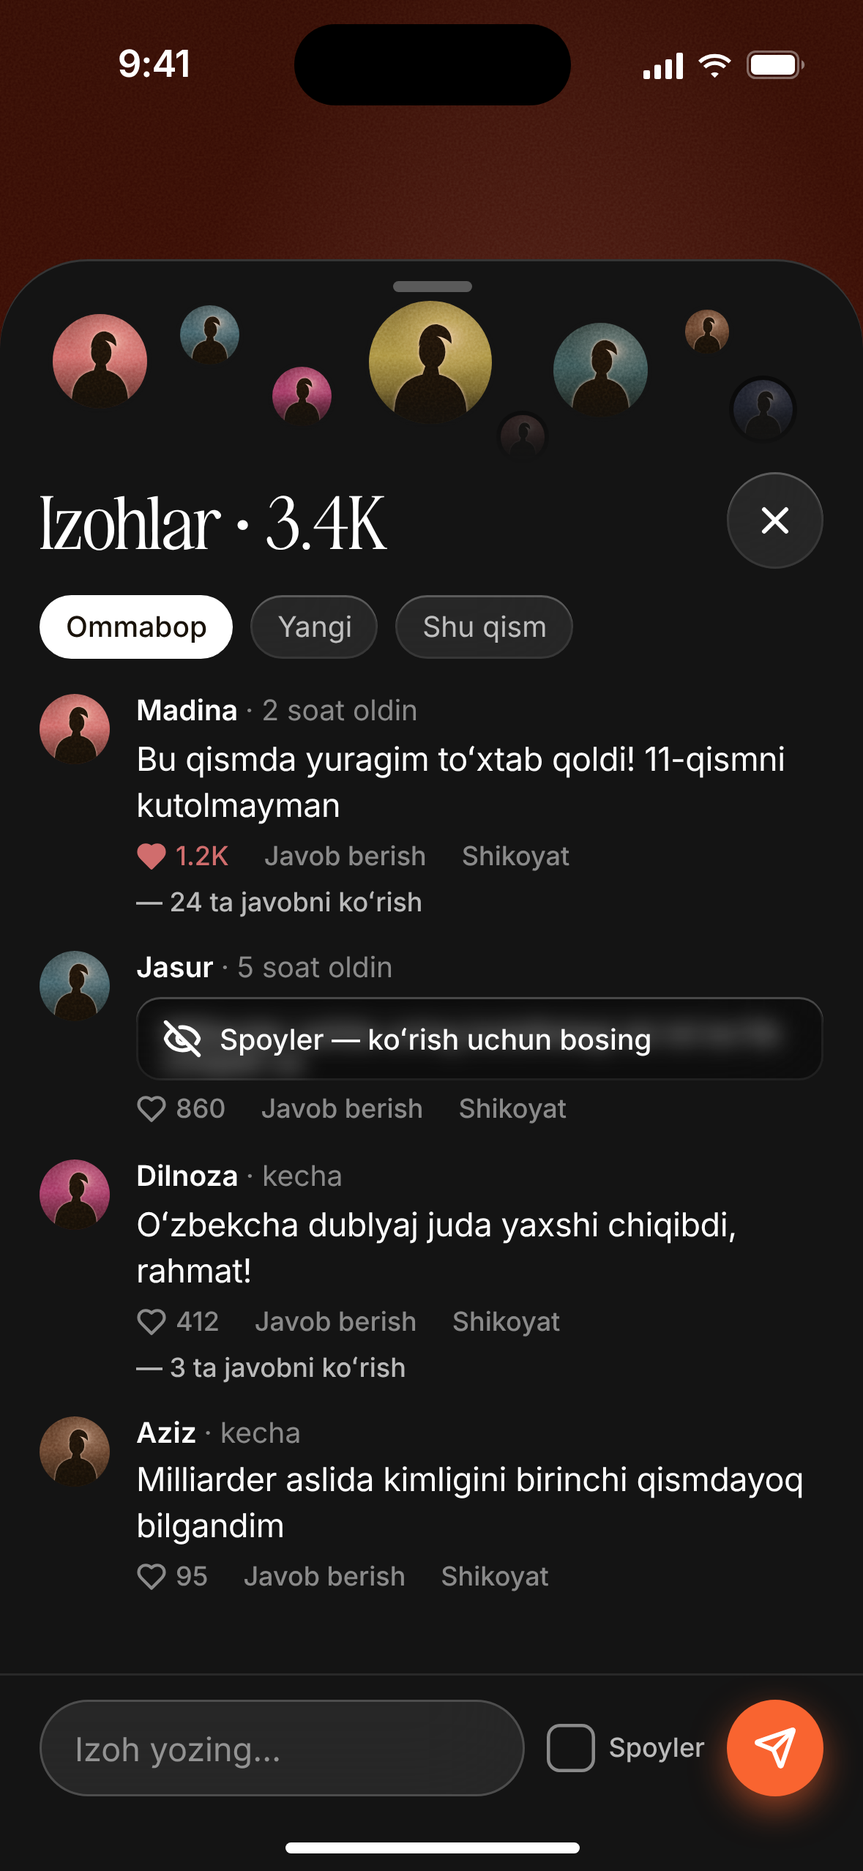
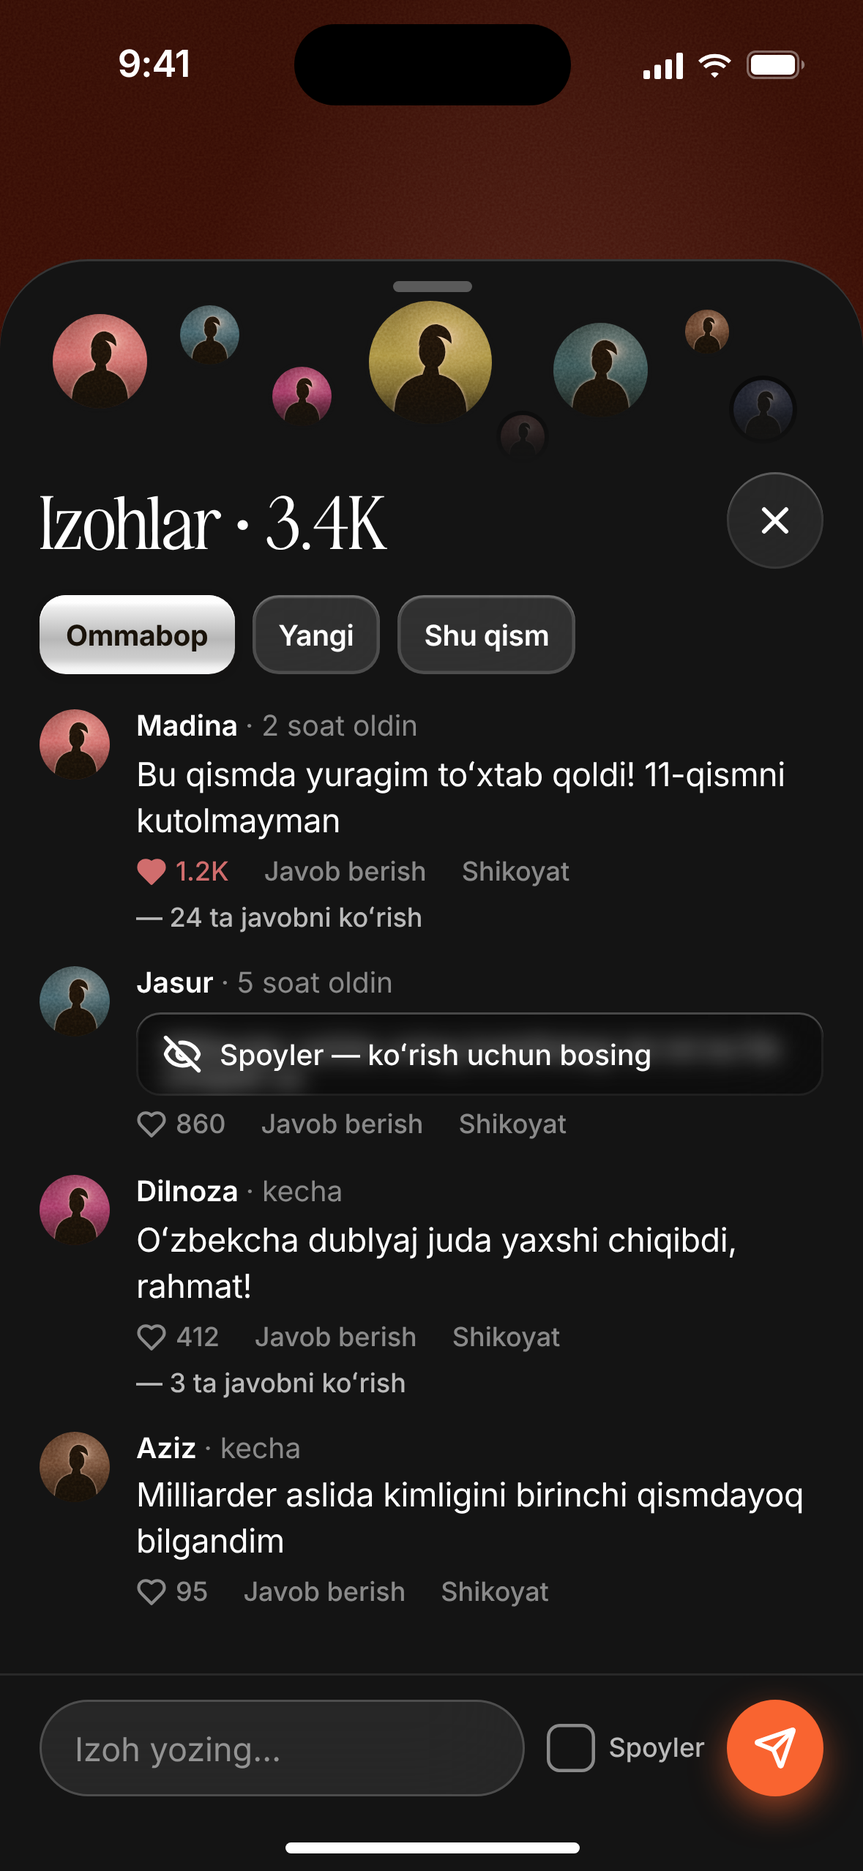
Selectable chips become button-style choices
- .choice (44/36 pt, radius 12, 600-700 weight): selected uses the glossy
  primary fill, others the solid glass button; applied to language,
  filters, quality/audio/subtitle, episode range, player bar, recent
  searches, payment methods, notification and help topics
- 07 results fade at the bottom instead of running under the home bar
- heights, gallery sample, DEVIATIONS U5; audit clean; shots regenerated

Claude-Session: https://claude.ai/code/session_01AYQSqmCKxR9wk5HyhigZPN

diff --git a/design/screens/07-janrlar.html b/design/screens/07-janrlar.html
@@ -14,10 +14,10 @@
   .filters { position: absolute; top: 124px; left: 0; right: 0; display: flex; flex-direction: column; gap: var(--s-8); }
   .frow { display: flex; align-items: center; gap: var(--s-8); padding-left: var(--page-x); overflow: hidden; white-space: nowrap; }
   .frow > span:first-child { flex: none; width: 58px; font: 500 var(--t-caption)/1 var(--f-ui); color: var(--text-3); }
-  .frow .chip { height: var(--h-pill-xs); padding: 0 var(--s-12); font-size: var(--t-footnote); }
-  .found { position: absolute; top: 290px; left: var(--page-x); right: var(--page-x); display: flex; align-items: center; justify-content: space-between; padding-top: var(--s-12); box-shadow: inset 0 1px 0 var(--line-1); }
+  .found { position: absolute; top: 318px; left: var(--page-x); right: var(--page-x); display: flex; align-items: center; justify-content: space-between; padding-top: var(--s-12); box-shadow: inset 0 1px 0 var(--line-1); }
   .found .btn--text { height: auto; padding: 0; font-size: var(--t-footnote); color: var(--text-2); }
-  .results { position: absolute; top: 336px; left: var(--page-x); right: var(--page-x); display: flex; flex-direction: column; gap: var(--s-16); }
+  .results { position: absolute; top: 364px; bottom: 30px; left: var(--page-x); right: var(--page-x); display: flex; flex-direction: column; gap: var(--s-16); overflow: hidden;
+    -webkit-mask-image: linear-gradient(180deg, var(--bg-0) 82%, transparent 100%); mask-image: linear-gradient(180deg, var(--bg-0) 82%, transparent 100%); }
   .res { display: flex; gap: var(--s-12); align-items: center; }
   .res .poster { --pw: 76px; }
   .res__body { flex: 1; min-width: 0; }
@@ -37,10 +37,10 @@
   </div>
 
   <div class="filters">
-    <div class="frow"><span>Janr</span><span class="chip">Hammasi</span><span class="chip">Romantika</span><span class="chip chip--selected">Qasos</span><span class="chip">CEO</span><span class="chip">Boʻrilar</span><span class="chip">Oilaviy</span></div>
-    <div class="frow"><span>Til</span><span class="chip">Hammasi</span><span class="chip chip--selected">Oʻzbekcha</span><span class="chip">Ruscha</span><span class="chip">Inglizcha</span></div>
-    <div class="frow"><span>Holati</span><span class="chip chip--selected">Hammasi</span><span class="chip">Tugallangan</span><span class="chip">Davom etmoqda</span></div>
-    <div class="frow"><span>Saralash</span><span class="chip chip--selected">Ommabop</span><span class="chip">Yangi</span><span class="chip">Reyting</span><span class="chip">Koʻp saqlangan</span></div>
+    <div class="frow"><span>Janr</span><span class="chip choice choice--sm">Hammasi</span><span class="chip choice choice--sm">Romantika</span><span class="chip choice choice--sm chip--selected">Qasos</span><span class="chip choice choice--sm">CEO</span><span class="chip choice choice--sm">Boʻrilar</span><span class="chip choice choice--sm">Oilaviy</span></div>
+    <div class="frow"><span>Til</span><span class="chip choice choice--sm">Hammasi</span><span class="chip choice choice--sm chip--selected">Oʻzbekcha</span><span class="chip choice choice--sm">Ruscha</span><span class="chip choice choice--sm">Inglizcha</span></div>
+    <div class="frow"><span>Holati</span><span class="chip choice choice--sm chip--selected">Hammasi</span><span class="chip choice choice--sm">Tugallangan</span><span class="chip choice choice--sm">Davom etmoqda</span></div>
+    <div class="frow"><span>Saralash</span><span class="chip choice choice--sm chip--selected">Ommabop</span><span class="chip choice choice--sm">Yangi</span><span class="chip choice choice--sm">Reyting</span><span class="chip choice choice--sm">Koʻp saqlangan</span></div>
   </div>
 
   <div class="found"><span class="t-mono c-2">1 284 ta drama topildi</span><button class="btn btn--text">Tozalash</button></div>

diff --git a/design/screens/14-pleer-sozlamalari.html b/design/screens/14-pleer-sozlamalari.html
@@ -13,7 +13,6 @@
   .head { display: flex; align-items: center; justify-content: space-between; }
   .grp { margin-top: var(--s-16); }
   .grp > p { font: 500 var(--t-caption)/1 var(--f-ui); color: var(--text-3); margin-bottom: var(--s-8); }
-  .grp .chip { height: var(--h-pill-xs); padding: 0 var(--s-12); font-size: var(--t-footnote); }
   .speed .gslider { color: var(--text-2); }
   .ticks { display: flex; justify-content: space-between; padding: 0 var(--s-6); margin-top: var(--s-6); font: 500 var(--t-caption)/1 var(--f-ui); color: var(--text-3); }
   .ticks b { color: var(--text-1); font-weight: 600; }
@@ -37,9 +36,9 @@
       <div class="gslider" style="--v: 20%"><div class="gslider__fill"></div><div class="gslider__dots"><i></i><i></i><i></i><i></i><i></i></div><div class="gslider__knob"></div><span><i class="ic ic-gauge ic--20"></i></span><span class="t-body-m" style="color: var(--text-1)">1.0x</span></div>
       <div class="ticks"><span>0.75x</span><b>1.0x</b><span>1.25x</span><span>1.5x</span><span>2.0x</span></div>
     </div>
-    <div class="grp"><p>Sifat</p><div class="row-flex gap-8"><span class="chip chip--selected"><i class="ic ic-check"></i>Avto</span><span class="chip">480p</span><span class="chip">720p</span><span class="chip">1080p<span class="vipb">VIP</span></span></div></div>
-    <div class="grp"><p>Ovoz / dublyaj</p><div class="row-flex gap-8"><span class="chip">Original</span><span class="chip chip--selected"><i class="ic ic-check"></i>Oʻzbekcha</span><span class="chip">Ruscha</span></div></div>
-    <div class="grp"><p>Subtitr</p><div class="row-flex gap-8"><span class="chip">Oʻchiq</span><span class="chip chip--selected"><i class="ic ic-check"></i>Oʻzbekcha</span><span class="chip">Ruscha</span><span class="chip">Inglizcha</span></div></div>
+    <div class="grp"><p>Sifat</p><div class="row-flex gap-8"><span class="chip choice choice--sm chip--selected"><i class="ic ic-check"></i>Avto</span><span class="chip choice choice--sm">480p</span><span class="chip choice choice--sm">720p</span><span class="chip choice choice--sm">1080p<span class="vipb">VIP</span></span></div></div>
+    <div class="grp"><p>Ovoz / dublyaj</p><div class="row-flex gap-8"><span class="chip choice choice--sm">Original</span><span class="chip choice choice--sm chip--selected"><i class="ic ic-check"></i>Oʻzbekcha</span><span class="chip choice choice--sm">Ruscha</span></div></div>
+    <div class="grp"><p>Subtitr</p><div class="row-flex gap-8"><span class="chip choice choice--sm">Oʻchiq</span><span class="chip choice choice--sm chip--selected"><i class="ic ic-check"></i>Oʻzbekcha</span><span class="chip choice choice--sm">Ruscha</span><span class="chip choice choice--sm">Inglizcha</span></div></div>
 
     <div class="card rows">
       <div class="row"><i class="ic ic-play"></i><span class="row__label">Keyingi qismni avtomatik ijro etish</span><span class="toggle is-on"></span></div>

diff --git a/design/index.html b/design/index.html
@@ -133,9 +133,9 @@
     { id: 'kashf', n: 2, title: 'Kashf qilish', desc: 'Bosh sahifa, vertikal lenta, qidiruv, janrlar, reyting va tez kunda chiqadiganlar.', screens: [
       ['04-bosh-sahifa', 'Bosh sahifa', 2201], ['05-lenta', 'Lenta (vertikal svayp)'], ['06-qidiruv', 'Qidiruv'], ['07-janrlar', 'Janrlar va filtr'], ['08-reyting', 'Reyting / Top'], ['09-tez-kunda', 'Tez kunda']] },
     { id: 'tomosha', n: 3, title: 'Tomosha', desc: 'Drama sahifasi, pleer va uning qatlamlari — qismlar, izohlar, sozlamalar — hamda serial yakuni.', screens: [
-      ['10-drama', 'Drama sahifasi', 1786], ['11-pleer', 'Pleer'], ['12-qismlar', 'Qismlar roʻyxati'], ['13-izohlar', 'Izohlar'], ['14-pleer-sozlamalari', 'Pleer sozlamalari'], ['15-serial-tugadi', 'Serial tugadi']] },
+      ['10-drama', 'Drama sahifasi', 1793], ['11-pleer', 'Pleer'], ['12-qismlar', 'Qismlar roʻyxati'], ['13-izohlar', 'Izohlar'], ['14-pleer-sozlamalari', 'Pleer sozlamalari'], ['15-serial-tugadi', 'Serial tugadi']] },
     { id: 'monetizatsiya', n: 4, title: 'Monetizatsiya', desc: 'Qulflangan qism, coin doʻkoni, VIP obuna, toʻlov, maxsus taklif va reklama koʻrib ochish.', screens: [
-      ['16-paywall', 'Qulflangan qism (paywall)'], ['17-coin-dokoni', 'Coin doʻkoni', 1146], ['18-vip', 'VIP obuna', 1115], ['19-tolov', 'Toʻlov'], ['20-maxsus-taklif', 'Maxsus taklif popup'], ['21-reklama', 'Reklama koʻrib ochish']] },
+      ['16-paywall', 'Qulflangan qism (paywall)'], ['17-coin-dokoni', 'Coin doʻkoni', 1160], ['18-vip', 'VIP obuna', 1115], ['19-tolov', 'Toʻlov'], ['20-maxsus-taklif', 'Maxsus taklif popup'], ['21-reklama', 'Reklama koʻrib ochish']] },
     { id: 'mukofotlar', n: 5, title: 'Mukofotlar', desc: 'Kunlik kirish, vazifalar va doʻstni taklif qilish — bonus coin manbalari.', screens: [
       ['22-mukofotlar', 'Mukofotlar markazi', 1598], ['23-dost-taklif', 'Doʻstni taklif qilish']] },
     { id: 'profil', n: 6, title: 'Profil', desc: 'Roʻyxatim, yuklanganlar, bildirishnomalar, profil, hamyon, sozlamalar va yordam markazi.', screens: [

diff --git a/design/screens/17-coin-dokoni.html b/design/screens/17-coin-dokoni.html
@@ -23,13 +23,12 @@
   .vipb { margin: var(--gap-section) var(--page-x) 0; display: flex; align-items: center; gap: var(--s-12); padding: var(--s-16); border-radius: var(--r-media); }
   .pay { padding: 0 var(--page-x); margin-top: var(--gap-section); }
   .pay__chips { display: flex; flex-wrap: wrap; gap: var(--s-8); margin-top: var(--s-12); }
-  .pay__chips .chip { height: var(--h-pill-xs); padding: 0 var(--s-12); color: var(--text-1); }
   .links { display: flex; justify-content: center; gap: var(--s-20); margin-top: var(--gap-section); font: 500 var(--t-footnote)/1 var(--f-ui); color: var(--text-2); }
   .links a { text-decoration: underline; text-underline-offset: 3px; }
 </style>
 </head>
 <body>
-<div class="screen" id="screen" style="height: 1146px">
+<div class="screen" id="screen" style="height: 1160px">
   <div class="glow warm grain"><div class="ring" style="opacity: .8"></div></div>
   <div class="status"><div class="status__time">9:41</div><div class="status__icons"><i class="status__sig"></i><i class="status__wifi"></i><i class="status__bat"></i></div></div>
   <div class="island"></div>
@@ -68,7 +67,7 @@
 
   <section class="pay">
     <h2 class="t-headline">Toʻlov usullari</h2>
-    <div class="pay__chips"><span class="chip">Payme</span><span class="chip">Click</span><span class="chip">Uzum</span><span class="chip">UzCard / Humo</span><span class="chip">Visa / MC</span><span class="chip">App Store / Google Play</span></div>
+    <div class="pay__chips"><span class="chip choice choice--sm">Payme</span><span class="chip choice choice--sm">Click</span><span class="chip choice choice--sm">Uzum</span><span class="chip choice choice--sm">UzCard / Humo</span><span class="chip choice choice--sm">Visa / MC</span><span class="chip choice choice--sm">App Store / Google Play</span></div>
   </section>
 
   <div class="links"><a class="hit">Xaridlarni tiklash</a><a class="hit">Toʻlov shartlari</a><a class="hit">Yordam</a></div>

diff --git a/design/screens/06-qidiruv.html b/design/screens/06-qidiruv.html
@@ -23,7 +23,6 @@
   .head { display: flex; align-items: center; justify-content: space-between; padding: 0 var(--page-x); }
   .head .btn--text { height: auto; padding: 0; color: var(--text-2); font-size: var(--t-footnote); }
   .recent { display: flex; flex-wrap: wrap; gap: var(--s-8); padding: 0 var(--page-x); margin-top: var(--s-12); }
-  .recent .chip { height: var(--h-chip-glass); padding: 0 var(--s-10) 0 var(--s-12); font-size: var(--t-footnote); color: var(--text-1); }
   .recent .chip .ic { color: var(--text-3); }
   .count { display: inline-grid; place-items: center; width: 26px; height: 26px; border-radius: 50%; background: var(--glass-bg-strong); font: 500 var(--t-footnote)/1 var(--f-ui); margin-left: var(--s-8); vertical-align: middle; }
   .top-list { padding: 0 var(--page-x); margin-top: var(--s-6); }
@@ -53,10 +52,10 @@
   <div class="body">
     <div class="head"><h2 class="t-headline">Oxirgi qidiruvlar</h2><button class="btn btn--text">Tozalash</button></div>
     <div class="recent">
-      <span class="chip">milliarder<i class="ic ic-close"></i></span>
-      <span class="chip">boʻri<i class="ic ic-close"></i></span>
-      <span class="chip">qasos kelin<i class="ic ic-close"></i></span>
-      <span class="chip">koreys drama<i class="ic ic-close"></i></span>
+      <span class="chip choice choice--sm">milliarder<i class="ic ic-close"></i></span>
+      <span class="chip choice choice--sm">boʻri<i class="ic ic-close"></i></span>
+      <span class="chip choice choice--sm">qasos kelin<i class="ic ic-close"></i></span>
+      <span class="chip choice choice--sm">koreys drama<i class="ic ic-close"></i></span>
     </div>
 
     <div class="head" style="margin-top: var(--s-24)"><h2 class="t-title-2">Koʻp qidirilayotgan<span class="count">8</span></h2></div>

diff --git a/design/screens/30-yordam.html b/design/screens/30-yordam.html
@@ -12,7 +12,6 @@
   .top { position: absolute; z-index: 5; top: 58px; left: var(--page-x); right: var(--page-x); display: flex; align-items: center; gap: var(--s-12); }
   .find { position: absolute; top: 120px; left: var(--page-x); right: var(--page-x); }
   .topics { position: absolute; top: 196px; left: var(--page-x); right: var(--page-x); display: flex; gap: var(--s-8); }
-  .topics .chip { height: var(--h-pill-xs); padding: 0 var(--s-12); }
   .acc { position: absolute; top: 246px; left: var(--page-x); right: var(--page-x); padding: 0; }
   .q { padding: var(--s-16); display: flex; align-items: center; gap: var(--s-12); }
   .q + .q, .q + .a + .q { box-shadow: inset 0 1px 0 var(--line-1); }
@@ -32,7 +31,7 @@
   <div class="top"><button class="gbtn gbtn--sm gbtn--dark" aria-label="Orqaga"><i class="ic ic-chev-left"></i></button><h1 class="t-title-2">Yordam markazi</h1></div>
 
   <div class="find search"><i class="ic ic-search c-3"></i><span class="search__ph">Savolingizni yozing…</span></div>
-  <div class="topics"><span class="chip chip--selected">Toʻlov</span><span class="chip">Coin</span><span class="chip">VIP</span><span class="chip">Tomosha</span><span class="chip">Hisob</span></div>
+  <div class="topics"><span class="chip choice choice--sm chip--selected">Toʻlov</span><span class="chip choice choice--sm">Coin</span><span class="chip choice choice--sm">VIP</span><span class="chip choice choice--sm">Tomosha</span><span class="chip choice choice--sm">Hisob</span></div>
 
   <div class="card acc">
     <div class="q"><span>Coinlarim qayerga ketdi?</span><i class="ic ic-chev-up ic--20"></i></div>

diff --git a/design/screens/13-izohlar.html b/design/screens/13-izohlar.html
@@ -13,7 +13,6 @@
   .bubbles { height: 74px; margin: -4px calc(var(--page-x) * -1) 0; -webkit-mask-image: linear-gradient(180deg, var(--bg-0) 55%, transparent 100%); mask-image: linear-gradient(180deg, var(--bg-0) 55%, transparent 100%); }
   .head { display: flex; align-items: center; justify-content: space-between; margin-top: var(--s-4); }
   .sort { display: flex; gap: var(--s-8); margin-top: var(--s-12); }
-  .sort .chip { height: var(--h-pill-xs); padding: 0 var(--s-12); }
   .cmts { margin-top: var(--s-16); display: flex; flex-direction: column; gap: var(--s-16); }
   .cmt { display: flex; gap: var(--s-12); }
   .cmt > .art { width: 32px; height: 32px; border-radius: 50%; flex: none; }
@@ -53,7 +52,7 @@
       <span class="bubble bubble--far art art--portrait" style="--amb: var(--amb-10); width: 19.5px; height: 19.5px; left: 228px; top: 52px"></span>
     </div>
     <div class="head"><h2 class="t-serif-lg">Izohlar · 3.4K</h2><button class="gbtn gbtn--sm gbtn--dark" aria-label="Yopish"><i class="ic ic-close ic--20"></i></button></div>
-    <div class="sort"><span class="chip chip--selected">Ommabop</span><span class="chip">Yangi</span><span class="chip">Shu qism</span></div>
+    <div class="sort"><span class="chip choice choice--sm chip--selected">Ommabop</span><span class="chip choice choice--sm">Yangi</span><span class="chip choice choice--sm">Shu qism</span></div>
 
     <div class="cmts">
       <div class="cmt"><div class="art art--portrait" style="--amb: var(--amb-11)"></div><div class="cmt__b">

diff --git a/design/components.css b/design/components.css
@@ -100,6 +100,12 @@ button { font: inherit; color: inherit; background: none; border: 0; cursor: poi
 .chip--flame { background: var(--flame); color: var(--on-flame); box-shadow: none; font-weight: 600; }
 .chip--sand { background: transparent; color: var(--sand); box-shadow: inset 0 0 0 1px var(--sand); }
 .chip--lg { height: var(--h-pill-xs); padding: 0 var(--s-12); font-size: var(--t-body); }
+/* Tanlov tugmasi — bosiladigan chip'lar (til, filtr, sifat, oraliq, saralash) asosiy tugma uslubida:
+   qalin yozuv, kamroq yumaloq burchak, tanlangani glossy oq (btn--primary), qolganlari glass tugma (btn--glass) */
+.choice { height: var(--h-choice); padding: 0 var(--s-16); gap: var(--s-6); border-radius: var(--r-btn-xs); background: var(--glass-btn); box-shadow: inset 0 0 0 1.5px var(--line-2), inset 0 1px 0 var(--glass-line); font: 600 var(--t-body)/1 var(--f-ui); letter-spacing: -.01em; color: var(--text-1); }
+.choice .ic { width: 16px; height: 16px; }
+.choice.chip--selected { background: var(--glossy-fill); color: var(--cocoa); box-shadow: var(--glossy-hi), var(--shadow-pill); font-weight: 700; }
+.choice--sm { height: var(--h-choice-sm); padding: 0 var(--s-12); font-size: var(--t-footnote); }
 .avatars { display: inline-flex; }
 .avatars > span { width: 20px; height: 20px; border-radius: 50%; margin-left: -7px; box-shadow: 0 0 0 1.5px var(--bg-0); background: var(--amb, var(--bg-3)); overflow: hidden; position: relative; }
 .avatars > span:first-child { margin-left: 0; }

diff --git a/design/screens/11-pleer.html b/design/screens/11-pleer.html
@@ -27,9 +27,7 @@
   .controls .sec-num { position: absolute; font: 600 var(--t-micro)/1 var(--f-ui); top: 50%; left: 50%; transform: translate(-50%, -38%); }
   .play { width: var(--d-play); height: var(--d-play); }
   .pills { position: absolute; z-index: 5; left: var(--page-x); right: var(--page-x); top: 770px; display: flex; gap: var(--s-8); }
-  .pills .chip { height: var(--h-chip-glass); padding: 0 var(--s-12); font: 500 var(--t-footnote)/1 var(--f-ui); color: var(--text-1); background: var(--glass-bg-strong); }
-  .pills .chip--selected { background: var(--text-1); color: var(--cocoa); }
-  .pills .chip--selected .ic { color: var(--cocoa); }
+  .pills .choice:not(.chip--selected) { background: var(--glass-bg-strong); }
 </style>
 </head>
 <body>
@@ -70,10 +68,10 @@
     <button class="gbtn" aria-label="5 soniya oldinga"><i class="ic ic-forward ic--28"></i><span class="sec-num">5</span></button>
   </div>
   <div class="pills">
-    <span class="chip chip--selected"><i class="ic ic-list"></i>Qismlar 10/80</span>
-    <span class="chip">1.0x</span>
-    <span class="chip"><i class="ic ic-cc"></i>CC uz</span>
-    <span class="chip">720p</span>
+    <span class="chip choice choice--sm chip--selected"><i class="ic ic-list"></i>Qismlar 10/80</span>
+    <span class="chip choice choice--sm">1.0x</span>
+    <span class="chip choice choice--sm"><i class="ic ic-cc"></i>CC uz</span>
+    <span class="chip choice choice--sm">720p</span>
   </div>
 
   <div class="home-ind"></div>

diff --git a/design/screens/10-drama.html b/design/screens/10-drama.html
@@ -30,13 +30,12 @@
   .price { margin: 0 var(--page-x); }
   .price__line { display: flex; gap: var(--s-10); align-items: flex-start; }
   .range { display: flex; align-items: center; gap: var(--s-8); padding: 0 var(--page-x); margin-top: var(--s-16); }
-  .range .chip { height: var(--h-pill-xs); padding: 0 var(--s-12); font-size: var(--t-footnote); }
   .eps-wrap { padding: 0 var(--page-x); margin-top: var(--s-12); }
   .legend { margin-top: var(--s-12); }
 </style>
 </head>
 <body>
-<div class="screen" id="screen" style="height: 1786px">
+<div class="screen" id="screen" style="height: 1793px">
   <div class="status"><div class="status__time">9:41</div><div class="status__icons"><i class="status__sig"></i><i class="status__wifi"></i><i class="status__bat"></i></div></div>
   <div class="island"></div>
 
@@ -98,7 +97,7 @@
   <section class="sec">
     <nav class="utabs"><span class="utabs__item is-active">Qismlar (80)</span><span class="utabs__item">Oʻxshash</span><span class="utabs__item">Tafsilotlar</span></nav>
     <div class="range">
-      <span class="chip chip--selected">1–30</span><span class="chip">31–60</span><span class="chip">61–80</span>
+      <span class="chip choice choice--sm chip--selected">1–30</span><span class="chip choice choice--sm">31–60</span><span class="chip choice choice--sm">61–80</span>
       <span class="t-caption c-3" style="margin-left: auto">har biri 1–2 daqiqa</span>
     </div>
     <div class="eps-wrap">

diff --git a/design/screens/26-bildirishnomalar.html b/design/screens/26-bildirishnomalar.html
@@ -16,7 +16,6 @@
   .perm > *:not(.ring) { position: relative; z-index: 3; }
   .perm .ring--card { width: 760px; height: 760px; left: -400px; top: -340px; }
   .filters { position: absolute; top: 212px; left: var(--page-x); right: 0; display: flex; gap: var(--s-8); overflow: hidden; }
-  .filters .chip { height: var(--h-pill-xs); padding: 0 var(--s-12); }
   .feed { position: absolute; top: 260px; left: 0; right: 0; }
   .grp { padding: var(--s-12) var(--page-x) var(--s-4); font: 600 var(--t-caption)/1 var(--f-ui); color: var(--text-3); text-transform: none; }
   .nt { position: relative; display: flex; gap: var(--s-12); padding: var(--s-10) var(--page-x); align-items: flex-start; }
@@ -42,7 +41,7 @@
     <button class="btn btn--primary btn--xs" style="height: var(--d-glass-sm)">Yoqish +30</button>
   </div>
 
-  <div class="filters"><span class="chip chip--selected">Hammasi</span><span class="chip">Yangi qismlar</span><span class="chip">Takliflar</span><span class="chip">Javoblar</span><span class="chip">Tizim</span></div>
+  <div class="filters"><span class="chip choice choice--sm chip--selected">Hammasi</span><span class="chip choice choice--sm">Yangi qismlar</span><span class="chip choice choice--sm">Takliflar</span><span class="chip choice choice--sm">Javoblar</span><span class="chip choice choice--sm">Tizim</span></div>
 
   <div class="feed">
     <p class="grp">Bugun</p>

diff --git a/design/screens/01-onboarding.html b/design/screens/01-onboarding.html
@@ -25,7 +25,6 @@
   .collage .art { position: absolute; border-radius: var(--r-media); box-shadow: var(--shadow-pill); }
   .cap { position: absolute; z-index: 3; right: var(--page-x); top: 392px; text-align: right; color: var(--text-1); }
   .lang { position: absolute; top: 604px; left: var(--page-x); right: var(--page-x); }
-  .lang .chip { height: var(--h-chip-glass); padding: 0 var(--s-16); font-size: var(--t-body); }
   .guest { position: absolute; top: 684px; left: var(--page-x); right: var(--page-x); display: flex; gap: var(--s-12); align-items: center; padding: var(--s-12) var(--s-16); border-radius: var(--r-tile); }
   .cta { position: absolute; left: var(--page-x); right: var(--page-x); bottom: 34px; }
 </style>
@@ -75,9 +74,9 @@
   <div class="lang">
     <h2 class="t-headline" style="margin-bottom: var(--s-12)">Til, dublyaj va subtitr</h2>
     <div class="row-flex gap-8">
-      <span class="chip chip--selected"><i class="ic ic-check"></i>Oʻzbekcha</span>
-      <span class="chip">Русский</span>
-      <span class="chip">English</span>
+      <span class="chip choice chip--selected"><i class="ic ic-check"></i>Oʻzbekcha</span>
+      <span class="chip choice">Русский</span>
+      <span class="chip choice">English</span>
     </div>
   </div>
 
